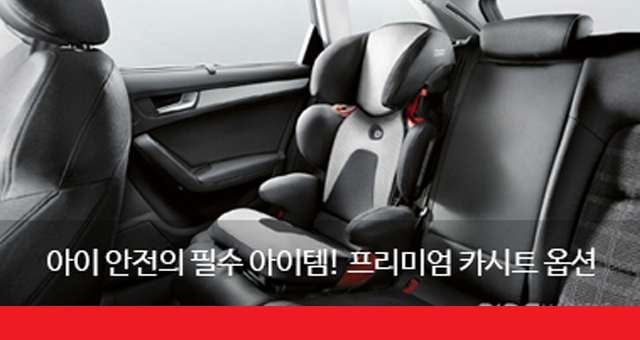
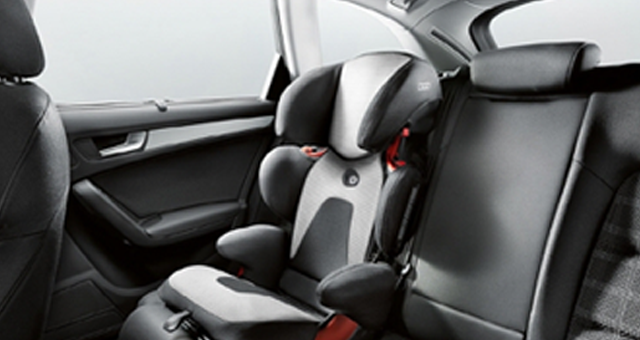
mo 제주오토하우스 이미지 교체, mo 중고차 메인 상단 롤링 텍스트 추가

diff --git a/wwwroot/mo/resources-mo/styles/contents.css b/wwwroot/mo/resources-mo/styles/contents.css
@@ -27085,6 +27085,177 @@
 	height: 100%;
 }
 
+.secondhand-wrap .section-detail .detail-main-list.detail-main-list1 .life-event-view .slide-txt-info {
+	position: absolute;
+	top: 0;
+	right: 0;
+	bottom: 0;
+	width: 40%;
+	height: 100%;
+	display: -webkit-box;
+	display: -webkit-flex;
+	display: -moz-box;
+	display: -ms-flexbox;
+	display: flex;
+	-webkit-box-align: center;
+	-webkit-align-items: center;
+	   -moz-box-align: center;
+	    -ms-flex-align: center;
+	        align-items: center;
+	-webkit-box-pack: center;
+	-webkit-justify-content: center;
+	   -moz-box-pack: center;
+	    -ms-flex-pack: center;
+	        justify-content: center;
+	-webkit-box-orient: vertical;
+	-webkit-box-direction: normal;
+	-webkit-flex-flow: column;
+	   -moz-box-orient: vertical;
+	   -moz-box-direction: normal;
+	    -ms-flex-flow: column;
+	        flex-flow: column;
+	-webkit-box-align: start;
+	-webkit-align-items: flex-start;
+	   -moz-box-align: start;
+	    -ms-flex-align: start;
+	        align-items: flex-start;
+}
+
+.secondhand-wrap .section-detail .detail-main-list.detail-main-list1 .life-event-view .slide-txt-info p {
+	position: relative;
+	z-index: 10;
+	display: -webkit-box;
+	display: -webkit-flex;
+	display: -moz-box;
+	display: -ms-flexbox;
+	display: flex;
+	-webkit-box-orient: vertical;
+	-webkit-box-direction: normal;
+	-webkit-flex-flow: column;
+	   -moz-box-orient: vertical;
+	   -moz-box-direction: normal;
+	    -ms-flex-flow: column;
+	        flex-flow: column;
+	-webkit-box-align: start;
+	-webkit-align-items: flex-start;
+	   -moz-box-align: start;
+	    -ms-flex-align: start;
+	        align-items: flex-start;
+	line-height: 1.4;
+	padding: 0 1rem 0 2.1rem;
+}
+
+.secondhand-wrap .section-detail .detail-main-list.detail-main-list1 .life-event-view .slide-txt-info p strong {
+	color: #fff;
+	font-size: 1.6rem;
+	/*font-family:"ManropeB", "NotoM", serif;*/
+	font-family: "SpoqaB", serif;
+	font-weight: normal;
+	width: 100%;
+	display: -webkit-box;
+	overflow: hidden;
+	-o-text-overflow: ellipsis;
+	   text-overflow: ellipsis;
+	-webkit-line-clamp: 3;
+	-webkit-box-orient: vertical;
+	word-break: break-all;
+}
+
+.secondhand-wrap .section-detail .detail-main-list.detail-main-list1 .life-event-view .slide-txt-info p em {
+	color: #fff;
+	font-size: 1.6rem;
+	/*font-family:"ManropeB", "NotoM", serif;*/
+	font-family: "SpoqaB", serif;
+	font-weight: normal;
+}
+
+.secondhand-wrap .section-detail .detail-main-list.detail-main-list1 .life-event-view .slide-txt-info p span {
+	color: #d0d0cf;
+	font-size: 1.1rem;
+	/*font-family:"ManropeB", "NotoM", serif;*/
+	font-family: "SpoqaR", serif;
+	font-weight: normal;
+	margin-top: .4rem;
+}
+
+.secondhand-wrap .section-detail .detail-main-list.detail-main-list1 .life-event-view .slide-txt-info div {
+	position: relative;
+	z-index: 10;
+	color: #ff404b;
+	font-size: 1.4rem;
+	display: -webkit-box;
+	display: -webkit-flex;
+	display: -moz-box;
+	display: -ms-flexbox;
+	display: flex;
+	-webkit-box-align: center;
+	-webkit-align-items: center;
+	   -moz-box-align: center;
+	    -ms-flex-align: center;
+	        align-items: center;
+	-webkit-box-align: end;
+	-webkit-align-items: flex-end;
+	   -moz-box-align: end;
+	    -ms-flex-align: end;
+	        align-items: flex-end;
+	padding: 2.3rem 0 0 2.1rem;
+	/*font-family:"ManropeB", "NotoM", serif;*/
+	font-family: "SpoqaB", serif;
+	font-weight: normal;
+}
+
+.secondhand-wrap .section-detail .detail-main-list.detail-main-list1 .life-event-view .slide-txt-info div sub {
+	font-size: .8rem;
+	/*font-family:"ManropeB", "NotoM", serif;*/
+	font-family: "SpoqaR", serif;
+	font-weight: normal;
+}
+
+.secondhand-wrap .section-detail .detail-main-list.detail-main-list1 .life-event-view .slide-txt-info div span {
+	font-size: 1.1rem;
+	/*font-family:"ManropeB", "NotoM", serif;*/
+	font-family: "SpoqaB", serif;
+	font-weight: normal;
+}
+
+.secondhand-wrap .section-detail .detail-main-list.detail-main-list1 .life-event-view .slide-txt-info div del {
+	color: #aaa;
+	font-size: 1rem;
+	/*font-family:"ManropeB", "NotoM", serif;*/
+	font-family: "SpoqaR", serif;
+	font-weight: normal;
+}
+
+.secondhand-wrap .section-detail .detail-main-list.detail-main-list1 .life-event-view .slide-txt-info div del sub {
+	font-size: .6rem;
+	/*font-family:"ManropeB", "NotoM", serif;*/
+	font-family: "SpoqaR", serif;
+	font-weight: normal;
+}
+
+.secondhand-wrap .section-detail .detail-main-list.detail-main-list1 .life-event-view .slide-txt-info div del span {
+	font-size: .8rem;
+	/*font-family:"ManropeB", "NotoM", serif;*/
+	font-family: "SpoqaR", serif;
+	font-weight: normal;
+}
+
+.secondhand-wrap .section-detail .detail-main-list.detail-main-list1 .life-event-view .slide-txt-info div + div {
+	padding-top: .7rem;
+}
+
+.secondhand-wrap .section-detail .detail-main-list.detail-main-list1 .life-event-view .slide-txt-info::before {
+	background-color: #000;
+	opacity: .8;
+	content: "";
+	height: 100%;
+	width: 100%;
+	position: absolute;
+	top: 0;
+	right: 0;
+	bottom: 0;
+}
+
 .secondhand-wrap .section-detail .detail-main-list.detail-main-list2 {
 	margin: 0;
 	padding: 2.2rem 1.7rem 1.7rem;

diff --git a/wwwroot/mo/resources-mo/scss/contents/_secondhand.scss b/wwwroot/mo/resources-mo/scss/contents/_secondhand.scss
@@ -723,6 +723,80 @@
                             height: 100%;
                         }
                     }
+                    .slide-txt-info{
+                        @include Position($top:0, $bottom:0, $right:0);
+                        width:40%;
+                        height:100%;
+                        @include Align-middle-column;
+                        align-items: flex-start;
+                        p{
+                            position: relative;
+                            z-index: 10;
+                            @include Align-left-column;
+                            align-items: flex-start;
+                            line-height:1.4;
+                            padding:0 1rem 0 2.1rem;
+                            strong{
+                                color:#fff;
+                                font-size:1.6rem;
+                                @include Bold;
+                                @include Ellipsis($w:100%, $lines:3);
+                            }
+                            em{
+                                color:#fff;
+                                font-size:1.6rem;
+                                @include Bold;
+                            }
+                            span{
+                                color:#d0d0cf;
+                                font-size:1.1rem;
+                                @include Regular;
+                                margin-top:.4rem;
+                            }
+                        }
+                        div{
+                            position: relative;
+                            z-index: 10;
+                            color:#ff404b;
+                            font-size:1.4rem;
+                            @include Align-middle-left;
+                            align-items: flex-end;
+                            padding:2.3rem 0 0 2.1rem;
+                            @include Bold;
+                            sub{
+                                font-size:.8rem;
+                                @include Regular;
+                            }
+                            span{
+                                font-size:1.1rem;
+                                @include Bold;
+                            }
+                            del{
+                                color:#aaa;
+                                font-size:1rem;
+                                @include Regular;
+                                sub{
+                                    font-size:.6rem;
+                                    @include Regular;
+                                }
+                                span{
+                                    font-size:.8rem;
+                                    @include Regular;
+                                }
+                            }
+                        }
+                        div + div{
+                            padding-top:.7rem;
+                        }
+                        &::before{
+                            background-color: #000;
+                            opacity: .8;
+                            content: "";
+                            height:100%;
+                            width:100%;
+                            @include Position($top:0, $bottom:0, $right:0);
+                        }
+                    }
                 }
             }
             &.detail-main-list2{

diff --git a/wwwroot/mo/html-mo/html/common/main_secondhand.html b/wwwroot/mo/html-mo/html/common/main_secondhand.html
@@ -43,6 +43,22 @@
 					<div class="life-event-view">
 						<div class="swiper-container life-event-lists">
 							<div class="swiper-wrapper">
+
+								<!-- 210204 태그 추가 -->
+								<div class="swiper-slide">
+									<a href="#">
+										<div class="img">
+											<img src="../../../resources-mo/images/@temp-main-secondhand-slide03.jpg" alt="더미이미지"/>
+										</div>
+										<div class="slide-txt-info">
+											<p><strong>G4 REXTON (D) 2.2 LUXURY 7인승</strong></p>
+											<p><span>2.2 LUXURY 7인승</span></p>
+											<div><sub>월</sub> 500,000<span>원</span></div>
+											<div><del><sub>월</sub> 518,000<span>원</span></del></div>
+										</div>
+									</a>
+								</div>
+								<!-- //210204 태그 추가 -->
 		
 								<div class="swiper-slide">
 									<a href="#">
